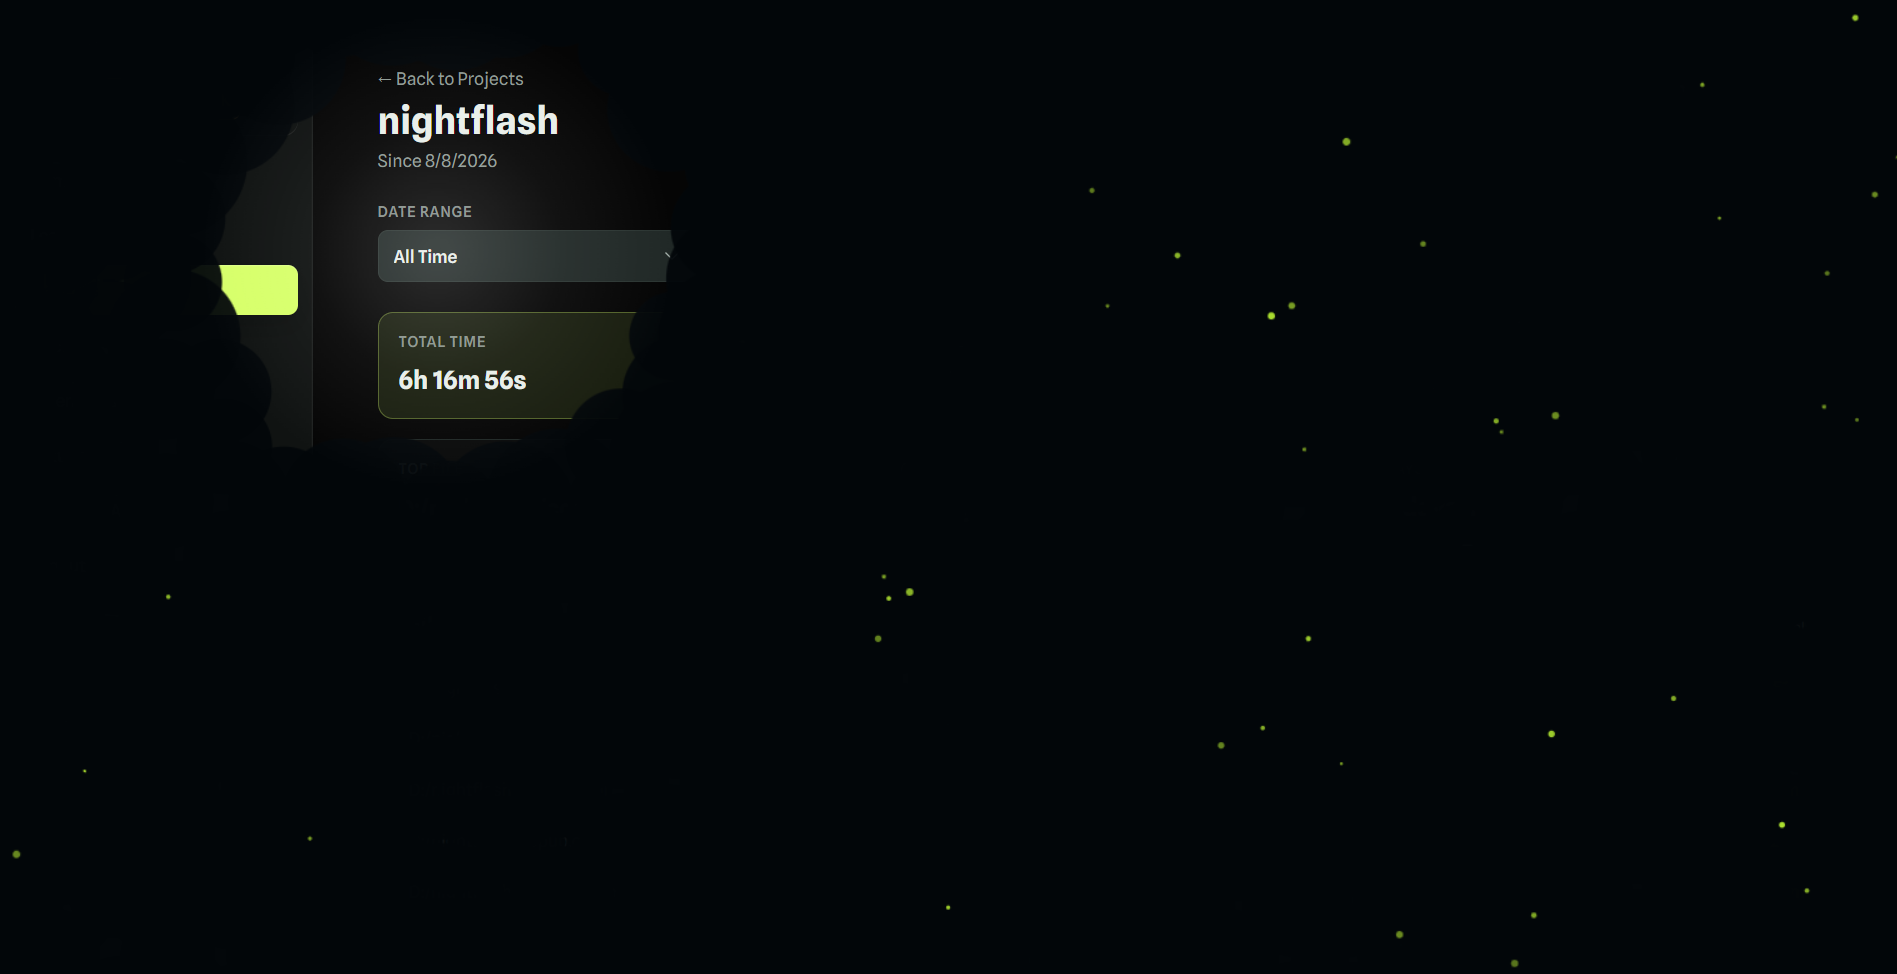
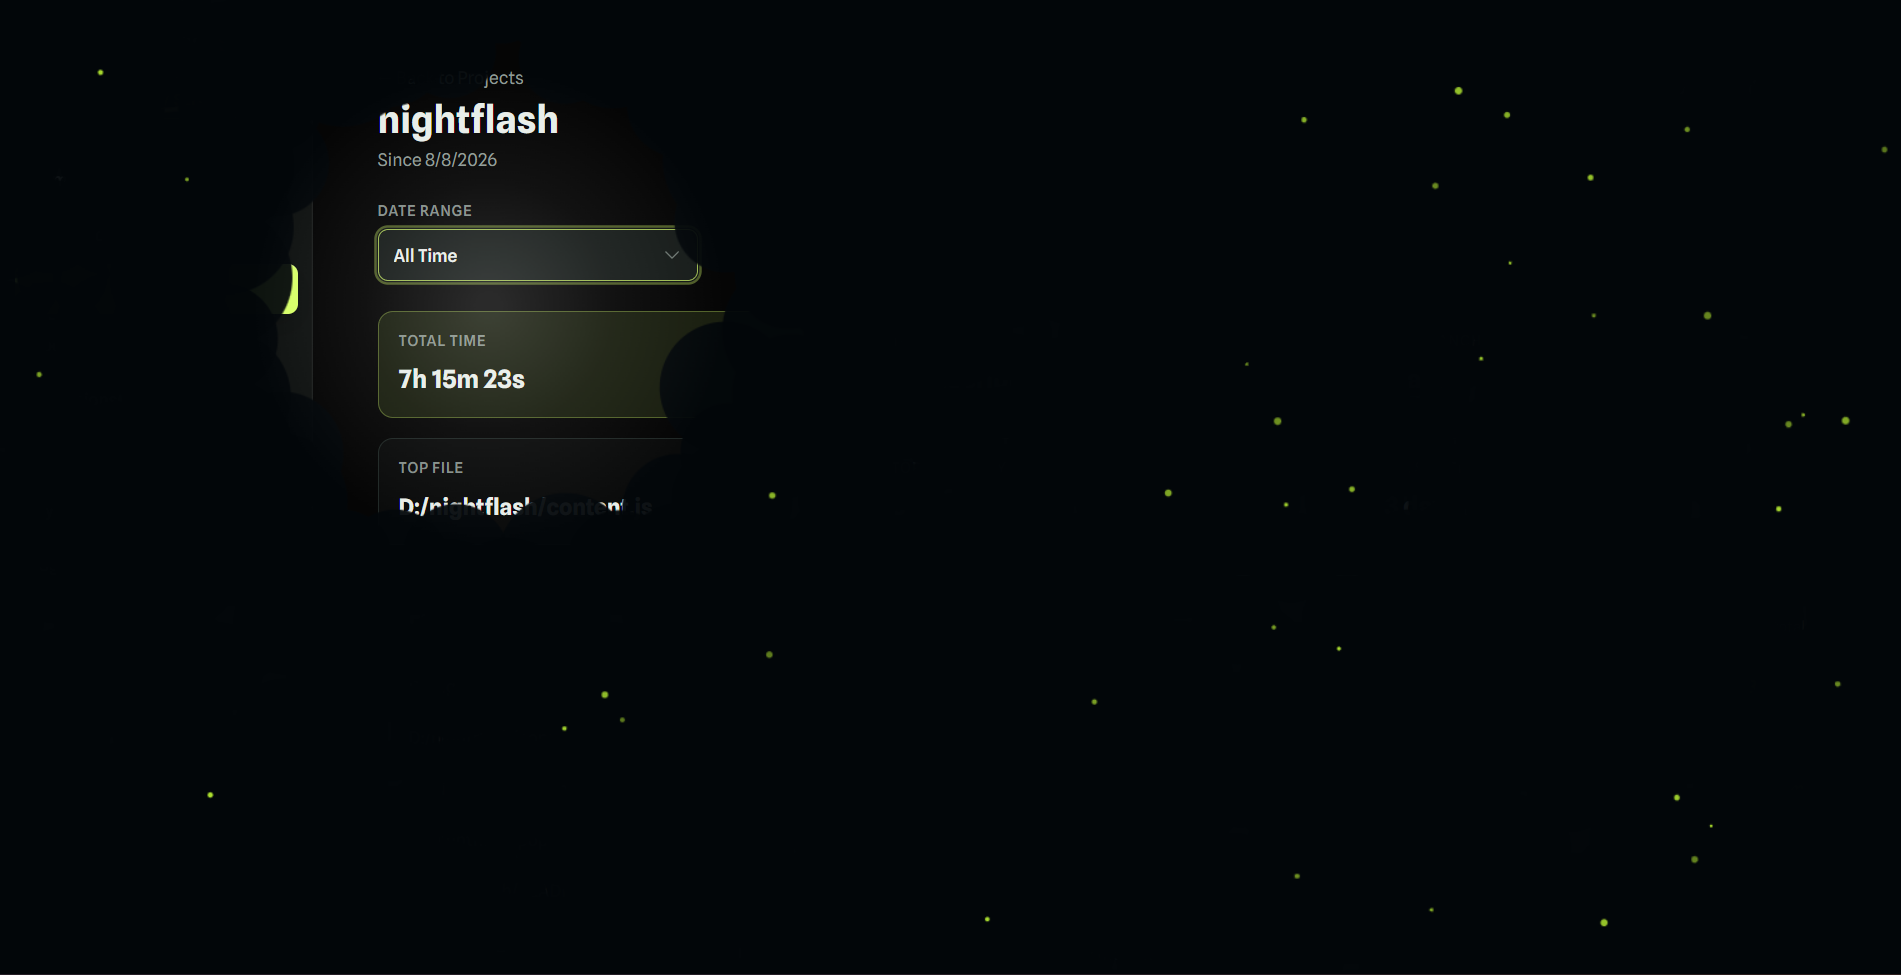
added option to change time for sleep and css

diff --git a/popup.js b/popup.js
@@ -6,8 +6,9 @@ document.addEventListener('DOMContentLoaded', () => {
     const tempBtns = document.querySelectorAll('#tempPresets .preset-btn');
     const fireflySlider = document.getElementById('fireflySlider');
     const fireflyCountValue = document.getElementById('fireflyCountValue');
+    const sleepTimerDropdown = document.getElementById('sleepTimerDropdown');
 
-    chrome.storage.local.get(['nightFlashState', 'nfSize', 'nfTemp', 'nfFireflies'], (result) => {
+    chrome.storage.local.get(['nightFlashState', 'nfSize', 'nfTemp', 'nfFireflies', 'nfSleepTimer'], (result) => {
         globalToggle.checked = result.nightFlashState !== false;
 
         if (result.nfSize) updateActiveButton(sizeBtns, result.nfSize, 'size');
@@ -16,6 +17,8 @@ document.addEventListener('DOMContentLoaded', () => {
         let count = result.nfFireflies !== undefined ? result.nfFireflies : 40;
         fireflySlider.value = count;
         fireflyCountValue.textContent = count;
+
+        if (result.nfSleepTimer) { sleepTimerDropdown.value = result.nfSleepTimer; }
     });
 
     fireflySlider.addEventListener('input', (e) => {
@@ -82,5 +85,9 @@ document.addEventListener('DOMContentLoaded', () => {
                 globalToggle.checked = changes.nightFlashState.newValue;
             }
         }
+    });
+
+    sleepTimerDropdown.addEventListener('change', (e) => {
+        chrome.storage.local.set({ nfSleepTimer: e.target.value});
     });
 });

diff --git a/popup.css b/popup.css
@@ -97,6 +97,12 @@ input:checked + .slider:before {
     gap: 8px;
 }
 
+.control-group label {
+    font-size: 14px;
+    font-weight: 600;
+    color: #e2e8f0;
+}
+
 .preset-group {
     display: flex;
     justify-content: space-between;
@@ -125,4 +131,53 @@ input:checked + .slider:before {
     background: rgba(59, 130, 246, 0.15);
     color: #00b3ff;
     border: 1px solid rgba(59, 130, 246, 0.5);
+}
+
+
+#fireflyCountValue {
+    color: #5675ff;
+    text-shadow: 0 0 10px rgba(0, 48, 180, 0.8);
+}
+
+input[type=range] {
+    width: 100%;
+    background: transparent;
+}
+
+input[type=range]::-webkit-slider-runnable-track {
+    width: 100%;
+    height: 6px;
+    cursor: pointer;
+    border-radius: 3px;
+}
+
+input[type=range]::-webkit-slider-thumb {
+    height: 16px;
+    width: 16px;
+    border-radius: 50%;
+    cursor: pointer;
+    margin-top: -5px;
+    transition: transform 0.2s;
+}
+
+input[type=range]::-webkit-slider-thumb:hover {
+    transform: scale(1.1);
+}
+
+
+select {
+    width: 100%;
+    padding: 8px 12px;
+    background: #111;
+    color: #ffffff;
+    border: 1px solid #444;
+    border-radius: 6px;
+    outline: none;
+    appearance: none;
+}
+
+select option {
+    background: #020609;
+    color: #fff;
+    padding: 10px;
 }

diff --git a/content.js b/content.js
@@ -18,6 +18,8 @@ let w, h;
 const clouds = [];
 const spacing = 45;
 
+let sleepDelay = 120000;
+let neverSleep = false;
 
 function initCloud() {
     clouds.length = 0;
@@ -64,6 +66,17 @@ chrome.storage.onChanged.addListener((changes, namespace) => {
             targetFireflyCount = changes.nfFireflies.newValue;
             adjustFireflyCount(targetFireflyCount);
         }
+
+        if (changes.nfSleepTimer) {
+            if (changes.nfSleepTimer.newValue === 'never') {
+                neverSleep = true;
+                isSleeping = false;
+                clearTimeout(sleepTimer);
+            } else {
+                neverSleep = false;
+                sleepDelay = parseInt(changes.nfSleepTimer.newValue);
+            }
+        }
     }
 });
 
@@ -98,10 +111,12 @@ window.addEventListener('mousemove', (e) => {
 
     isSleeping = false;
     clearTimeout(sleepTimer);
-
-    sleepTimer = setTimeout( () => {
+    
+    if (!neverSleep) {
+        sleepTimer = setTimeout( () => {
         isSleeping = true;
-    }, 120000);
+    }, sleepDelay);
+    }
 });
 
 let isExActive = true;

diff --git a/popup.html b/popup.html
@@ -37,6 +37,17 @@
             <label for="fireflySlider">Firefly count: <span id="fireflyCountValue">40</span></label>
             <input type="range" id="fireflySlider" min="0" max="200" value="40" step="10">
         </div>
+        <div class="control-group">
+            <span class="toggle-label">Sleep Time</span>
+            <label for="sleepTimerDropdown">time: </label>
+            <select id="sleepTimerDropdown">
+                <option value="30000">30 Sec</option>
+                <option value="60000">1 Min</option>
+                <option value="120000" selected>2 Min</option>
+                <option value="300000">5 Min</option>
+                <option value="never">Never sleep(like me)</option>
+            </select>
+        </div>
     </div>
     <script src="popup.js"></script>
 </body>

diff --git a/README.md b/README.md
@@ -17,6 +17,6 @@ A fun little chromium extension which creates night time vibes with night fog. A
     It will eat up the space when you leave.
 
 * ### sleep timer:
-    After 2 minutes of inactivity, the light will start to dim and flicker than after some seconds, it will go off.
+    After selected time (default: 2min) of inactivity, the light will start to dim and flicker than after some seconds, it will go off.
 
 
